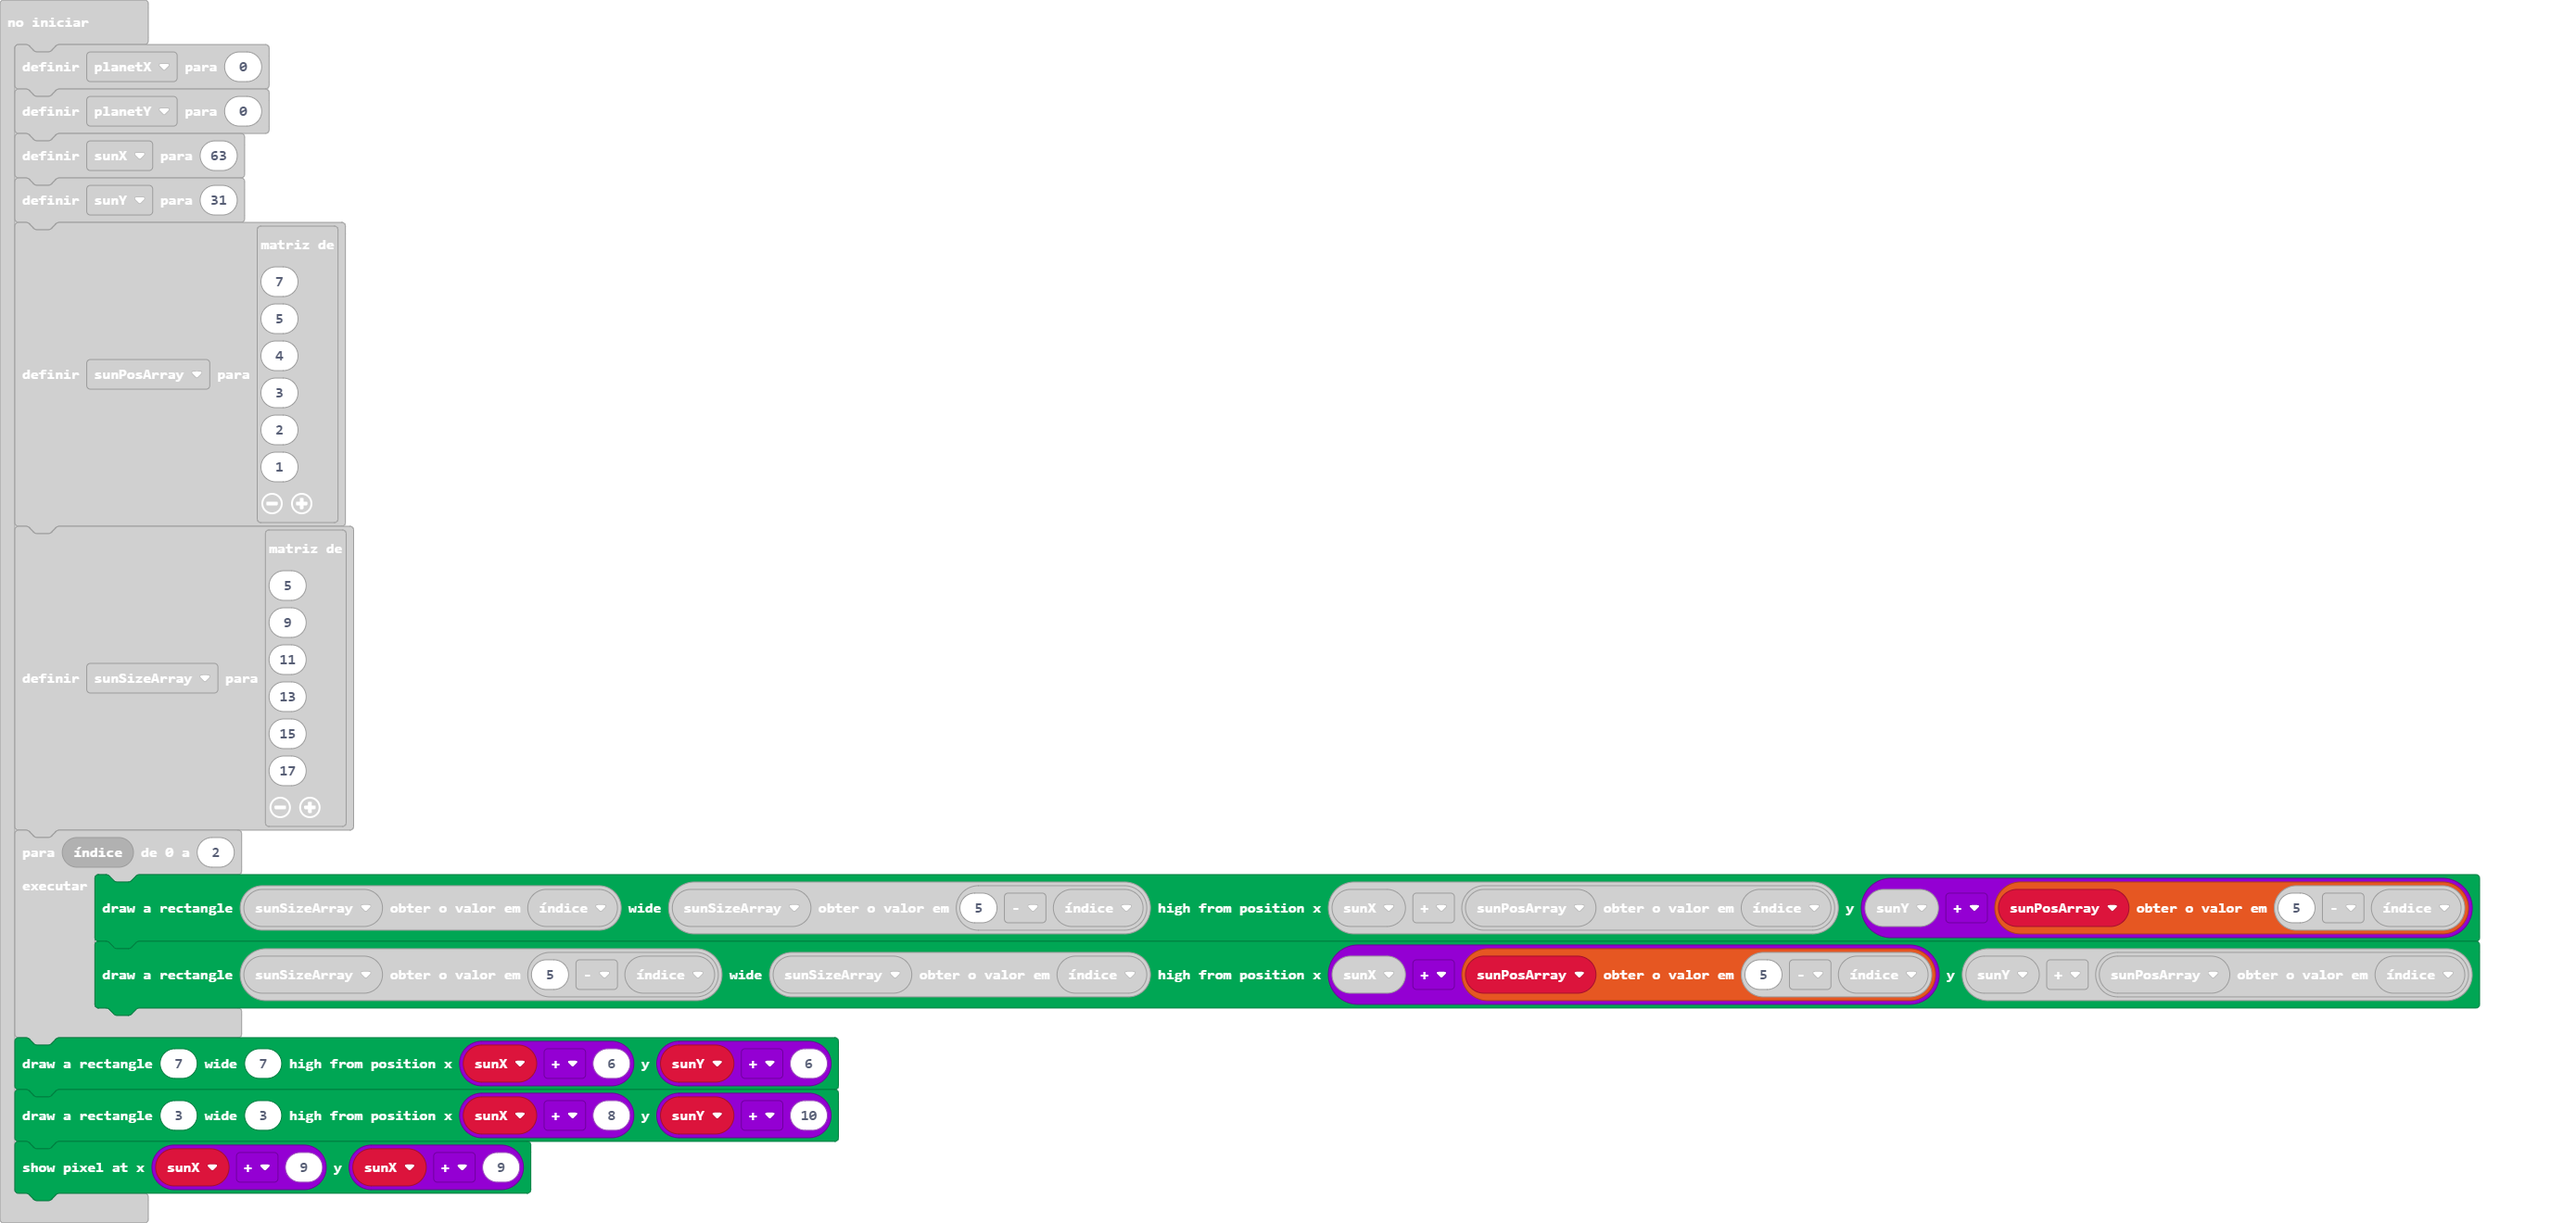
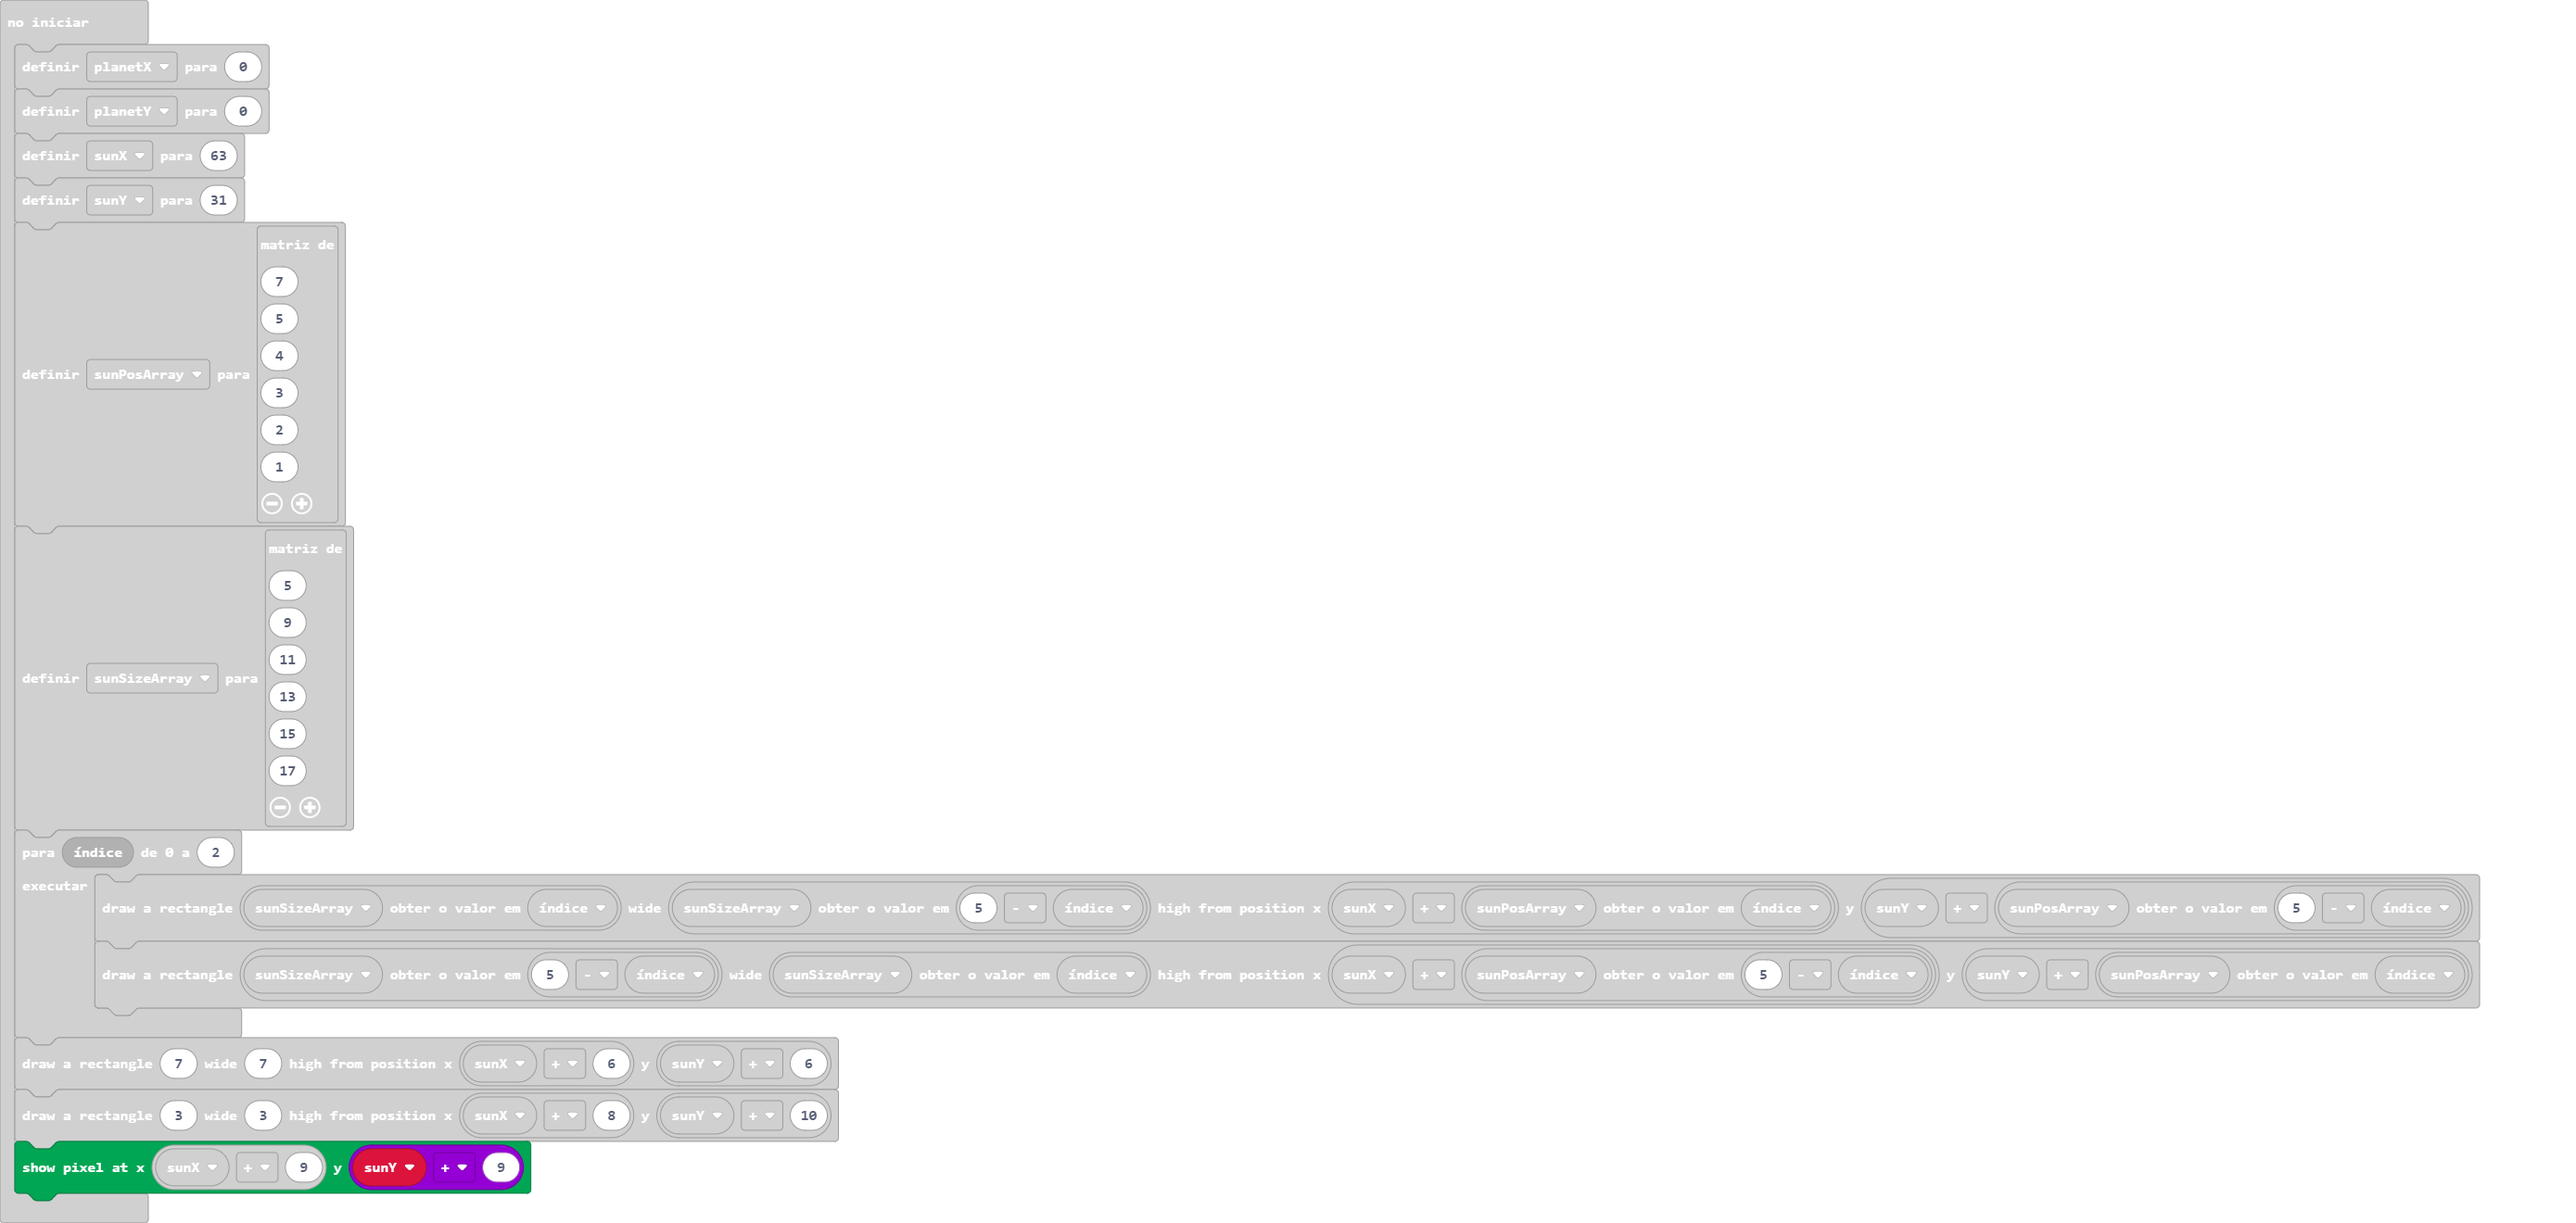
Atualizar 'main.blocks, main.ts'

Changed region(s): [[0.0, 0.7144, 0.9903, 0.9939]]

diff --git a/main.ts b/main.ts
@@ -24,7 +24,7 @@ for (let índice = 0; índice <= 2; índice++) {
 }
 kitronik_VIEW128x64.drawRect(7, 7, sunX + 6, sunY + 6)
 kitronik_VIEW128x64.drawRect(3, 3, sunX + 8, sunY + 10)
-kitronik_VIEW128x64.setPixel(sunX + 9, sunX + 9)
+kitronik_VIEW128x64.setPixel(sunX + 9, sunY + 9)
 basic.forever(function () {
 	
 })
